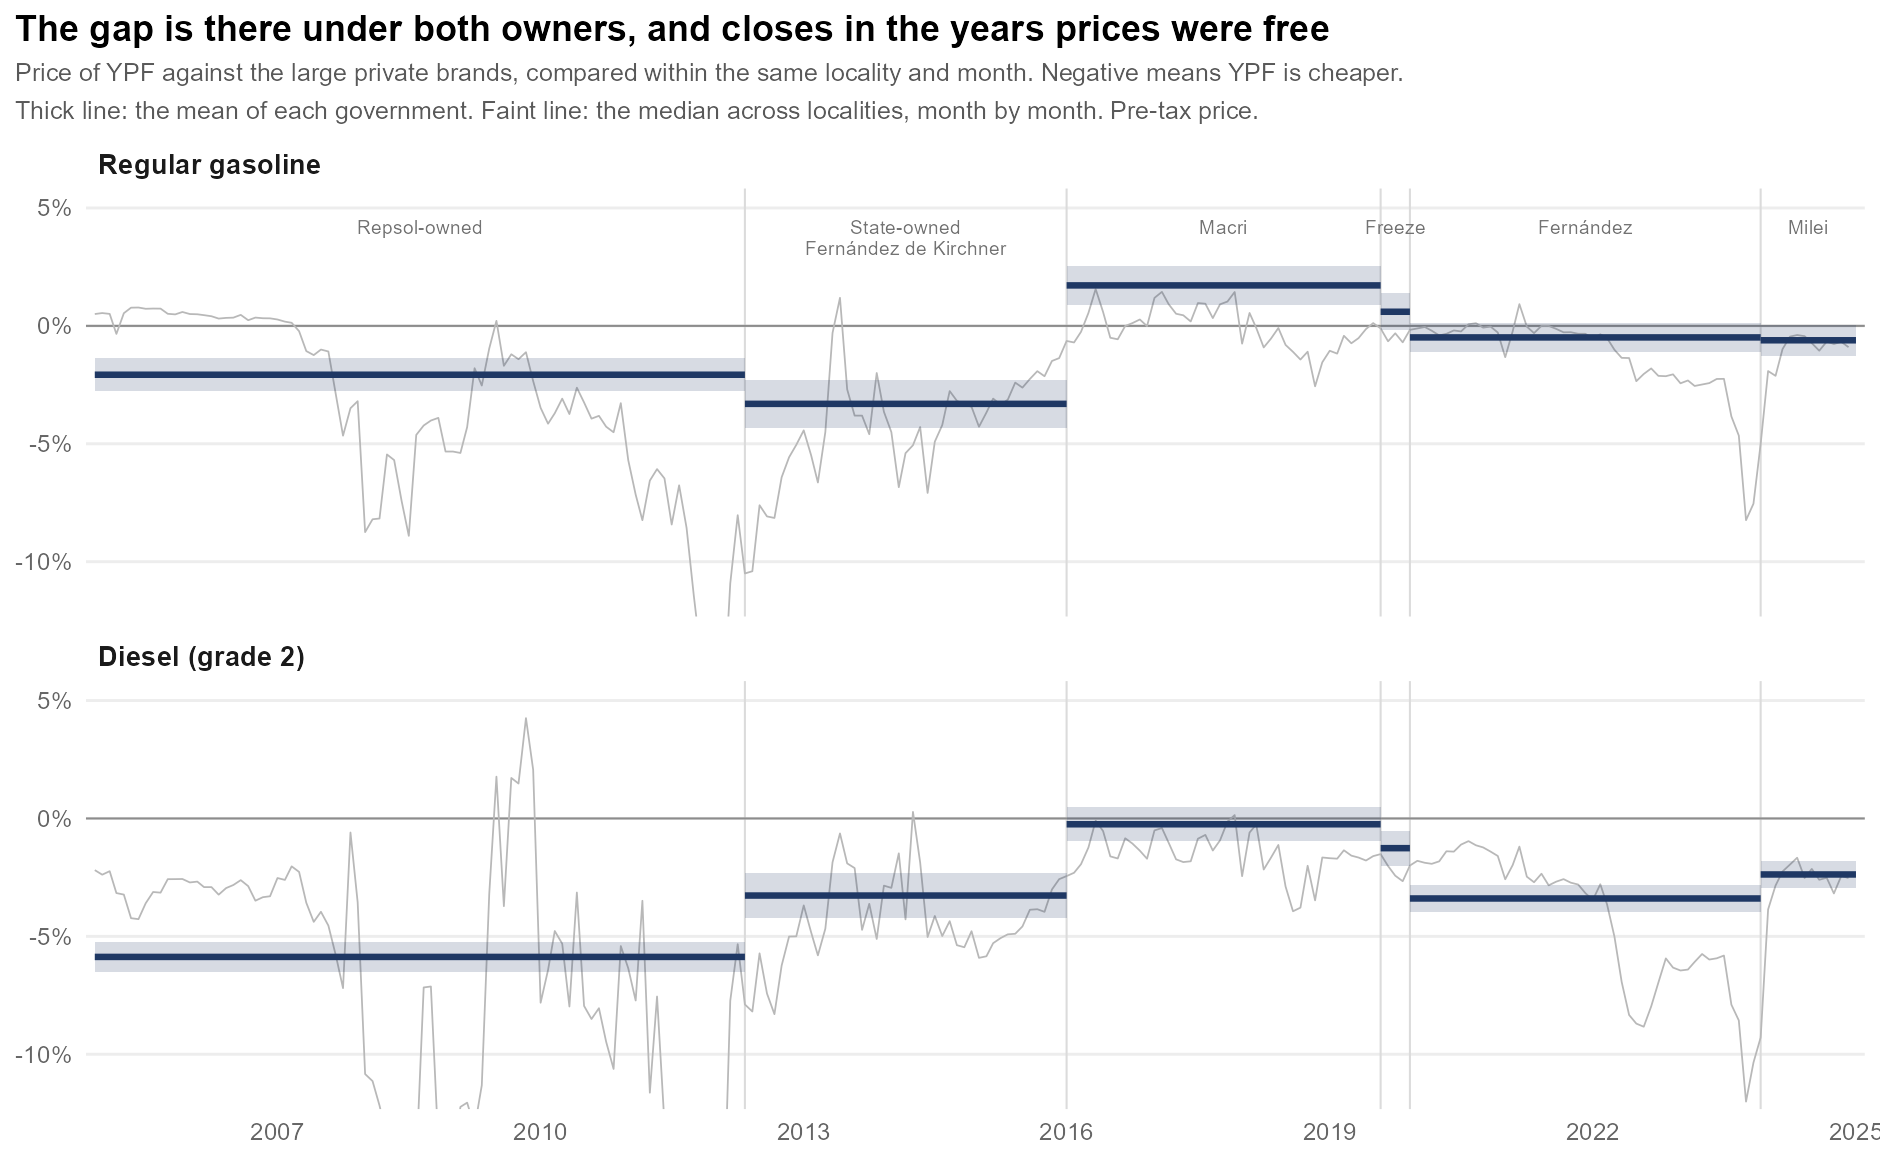
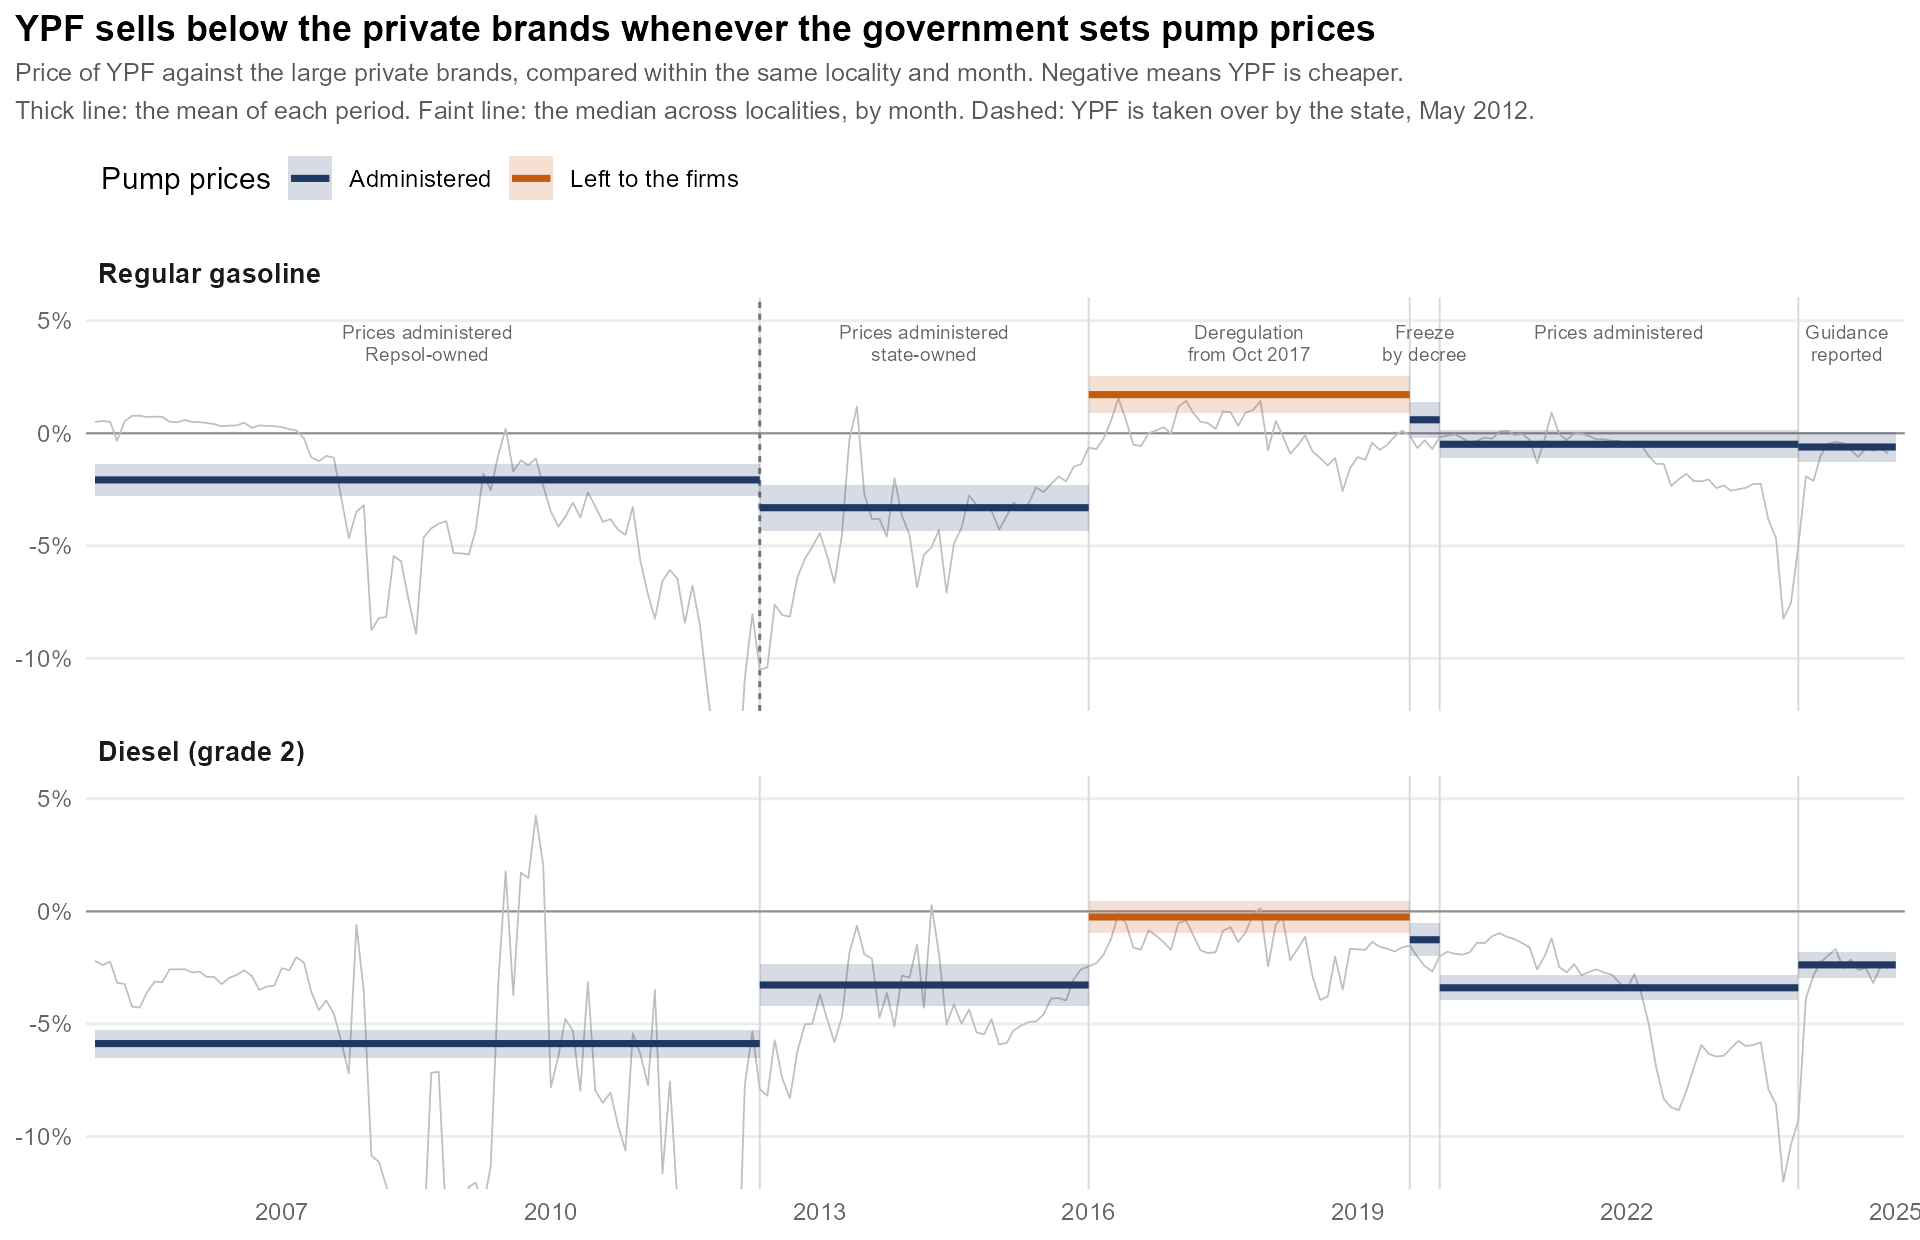
Label the front page by pricing policy, and add what each brand does alone
The periods now carry what the government did with pump prices instead of
the president's name, which a reader outside Argentina can follow, and
they are coloured by whether prices were set: the one period they were
not is the only one where YPF does not sell below the private brands.

The README gains a section on the monopoly premium: a large private brand
alone in its market charged 5.3% above its province in 2024 while YPF
charged what it charges anywhere, with the caveat that YPF's flat line is
the robust part and the size of the private premium is not (8 to 24
departments a year; pooled difference 0.9 points, t = 0.76).

diff --git a/README.md b/README.md
@@ -10,7 +10,7 @@ This repository contains the data work the estimation builds on: the station-lev
 
 ![YPF's price gap against the private brands, by government](docs/figures/ypf_private_gap_by_government.png)
 
-*Price of YPF against the large private brands, compared within the same locality and month, so the gap is not driven by where each brand sits. The grey line is the median across localities, month by month; the blue segment is the mean of each government with an interval from the spread of locality means. Two things to note. The gap is already there in 2005-2012, while YPF belonged to Repsol, and it closes over 2016-2019, the only years pump prices were free. And ownership cannot be separated from policy here: YPF was privately owned only in years when prices were also being negotiated with the government, which is why the thesis identifies the weight on consumer surplus from the pricing conditions rather than from this comparison. The unbranded outlets, not drawn, sit above the large private brands in every block, by 0.6 to 4 percent. Drawn by `code/figure_readme.R`.*
+*Price of YPF against the large private brands, compared within the same locality and month, so the gap is not driven by where each brand sits. The thick line is the mean of each period; the faint one is the median across localities, month by month. Periods are labelled by what the government did with pump prices, and coloured by whether it set them: the one period it did not is the only one in which YPF does not sell below the private brands. Ownership and policy cannot be separated here, since YPF was privately owned only in years when prices were also being negotiated with the government, which is why the thesis identifies the weight on consumer surplus from the pricing conditions rather than from this comparison. Deregulation is dated from October 2017 and the block still contains the freeze agreed in May 2018. The unbranded outlets, not drawn, sit above the large private brands in every period, by 0.6 to 4 percent. Drawn by `code/figure_readme.R`.*
 
 ## Data
 
@@ -88,6 +88,25 @@ Market structure and brand shares, the YPF-private price gap, volumes and report
 ![Pump price of regular gasoline against Brent](docs/figures/pump_price_vs_brent.png)
 
 *National median pre-tax price of regular gasoline against Brent, in USD per litre. Brent is quoted in dollars; the pump price is converted at the parallel exchange rate, which is the one that keeps the series comparable over a period when the official rate was held far from the market. The bottom panel is the ratio of the two. It is a comparison, not a margin: YPF refines domestic crude, which was priced well below Brent in several of these years. Dashed lines mark the 2012 renationalization, the 2017 deregulation and the 2019 price freeze. Drawn by `code/figure_readme.R` from the series that section 5 of `code/10_descriptives.R` writes.*
+
+## Where YPF is the only brand
+
+A second question the panel answers without a model: what does a brand do where it has no rival? Single-brand departments are common in the periphery, and most of them are YPF's.
+
+Take each outlet's pre-tax price as a deviation from the average of its province and product, and compare, for one brand, the departments where it competes with those where it is the only one. The difference is what that brand charges for being alone.
+
+| 2024 | Competing | Alone | Premium |
+|---|---:|---:|---:|
+| Large private brands | +1.0% | +5.3% | **+4.3 pp** |
+| YPF | -0.2% | -0.2% | **-0.0 pp** |
+
+In 2024 a large private brand alone in its market charges 5.3% above its province, 4.3 points more than where it faces rivals. YPF charges what it charges anywhere else.
+
+One year is not the rule, and the twenty of them split into a robust part and a fragile one. The robust part is YPF: its premium stays flat around zero every year of the period, between -2.8 and +1.6 points and averaging +0.2, measured over 100 to 140 departments a year, and it does so under Repsol as much as under the state. Where YPF is alone, it does not price as a monopolist.
+
+The fragile part is the size of the private premium. It swings: +6 points in 2008-10, -6 in 2017, when deregulated private brands charged *less* where they were alone, +7 in 2022, +5 in 2024. It rests on 8 to 24 departments a year, and that scarcity is itself the finding, because the captive periphery is mostly YPF's. Pooled over 2005-2024 the difference between the two brands is 0.9 points and not significant (t = 0.76), so the 4.3 of 2024 is a peak of that series rather than its level.
+
+This is the descriptive side of what the model is for. A flat monopoly premium is consistent with a firm that puts weight on consumer surplus, but it is also consistent with a firm that prices near-uniformly across the country for reasons of its own, as retail chains often do. Telling the two apart needs the demand system, which is why the captive-versus-competitive contrast is a secondary result in the [analysis plan](docs/analysis_plan.md) and carries a band. The figures behind these numbers are in the thesis, not in this repository.
 
 ## Some things the data required
 
